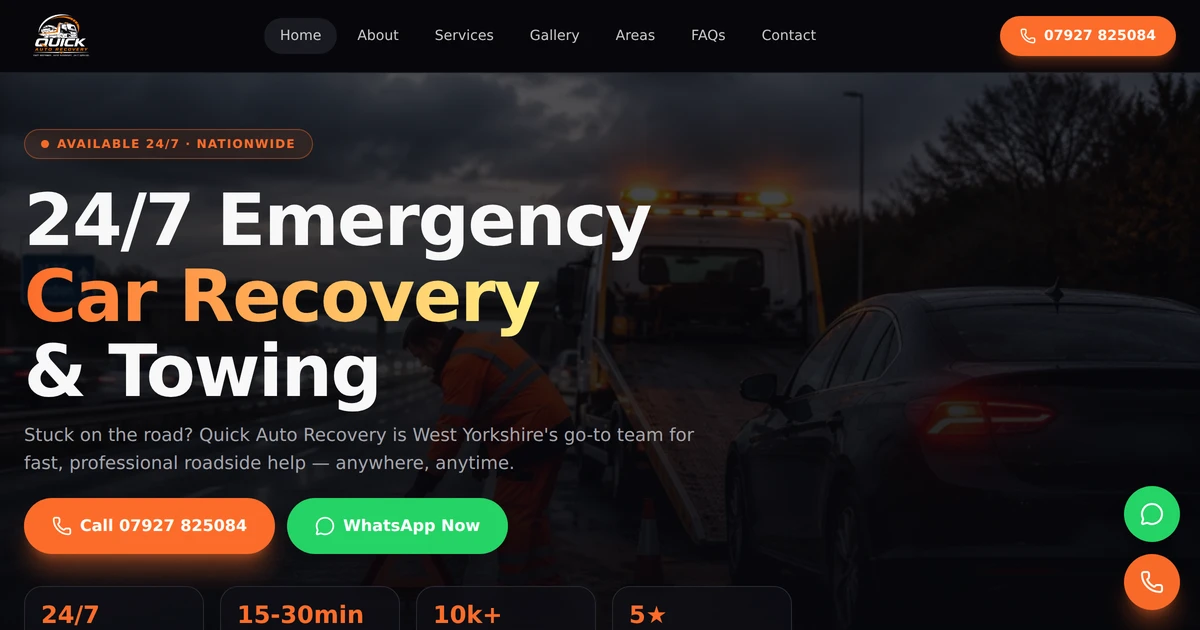
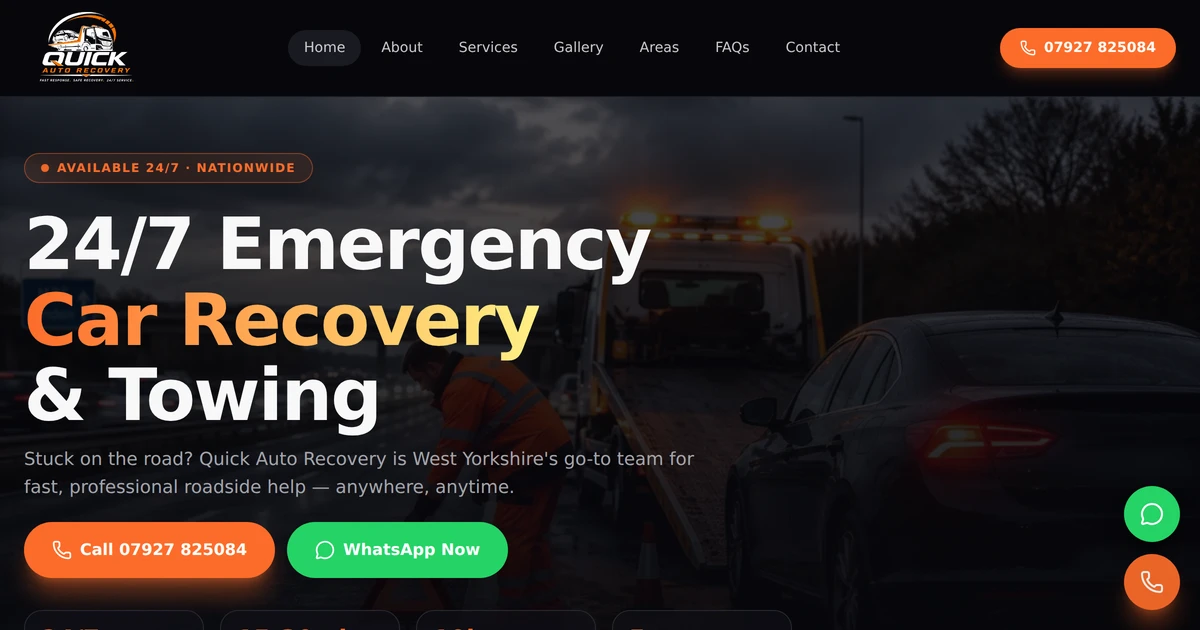
Fix Open Graph image not resolving on shared links
og:image and twitter:image were relative paths (e.g. /og-image.webp),
which most link-preview crawlers (WhatsApp, Facebook, Slack, X) fail
to resolve, so the preview image never showed when the site was
shared. Adds an absolute SITE_URL base and resolves all og:image/
twitter:image/og:url values against it.

Also fixes the homepage itself overriding the root's custom
og-image.webp with the plain hero photo, and refreshes the OG
snapshot to reflect the larger logo.

diff --git a/src/routes/__root.tsx b/src/routes/__root.tsx
@@ -11,6 +11,7 @@ import { useEffect, type ReactNode } from "react";
 
 import appCss from "../styles.css?url";
 import { reportLovableError } from "../lib/lovable-error-reporting";
+import { absoluteUrl, SITE_URL } from "../lib/seo";
 
 function NotFoundComponent() {
   return (
@@ -82,13 +83,14 @@ export const Route = createRootRouteWithContext<{ queryClient: QueryClient }>()(
       { name: "theme-color", content: "#0a0a14" },
       { property: "og:type", content: "website" },
       { property: "og:site_name", content: "Quick Auto Recovery" },
+      { property: "og:url", content: SITE_URL },
       { name: "twitter:card", content: "summary_large_image" },
       { property: "og:title", content: "Quick Auto Recovery — 24/7 Roadside Assistance West Yorkshire" },
       { name: "twitter:title", content: "Quick Auto Recovery — 24/7 Roadside Assistance West Yorkshire" },
       { property: "og:description", content: "24/7 emergency roadside assistance, vehicle recovery, jump start, battery replacement, mobile tyre service and secure vehicle storage across Bradford, Leeds, Halifax, Huddersfield and West Yorkshire." },
       { name: "twitter:description", content: "24/7 emergency roadside assistance, vehicle recovery, jump start, battery replacement, mobile tyre service and secure vehicle storage across Bradford, Leeds, Halifax, Huddersfield and West Yorkshire." },
-      { property: "og:image", content: "/og-image.webp" },
-      { name: "twitter:image", content: "/og-image.webp" },
+      { property: "og:image", content: absoluteUrl("/og-image.webp") },
+      { name: "twitter:image", content: absoluteUrl("/og-image.webp") },
     ],
     links: [
       {

diff --git a/src/lib/seo.ts b/src/lib/seo.ts
@@ -1,3 +1,9 @@
+export const SITE_URL = "https://quick-auto-recovery.vercel.app";
+
+export function absoluteUrl(path: string) {
+  return path.startsWith("http") ? path : `${SITE_URL}${path}`;
+}
+
 export function pageMeta({ title, description, path, image }: { title: string; description: string; path: string; image?: string }) {
   const meta: Array<Record<string, string>> = [
     { title },
@@ -5,14 +11,14 @@ export function pageMeta({ title, description, path, image }: { title: string; d
     { property: "og:title", content: title },
     { property: "og:description", content: description },
     { property: "og:type", content: "website" },
-    { property: "og:url", content: path },
+    { property: "og:url", content: absoluteUrl(path) },
     { name: "twitter:card", content: "summary_large_image" },
     { name: "twitter:title", content: title },
     { name: "twitter:description", content: description },
   ];
   if (image) {
-    meta.push({ property: "og:image", content: image });
-    meta.push({ name: "twitter:image", content: image });
+    meta.push({ property: "og:image", content: absoluteUrl(image) });
+    meta.push({ name: "twitter:image", content: absoluteUrl(image) });
   }
   return meta;
 }

diff --git a/src/routes/index.tsx b/src/routes/index.tsx
@@ -14,7 +14,7 @@ export const Route = createFileRoute("/")({
       title: "Quick Auto Recovery — 24/7 Roadside Assistance West Yorkshire",
       description: "West Yorkshire's trusted 24/7 emergency recovery, towing, accident recovery and specialist vehicle transport. Fast response, fair prices.",
       path: "/",
-      image: IMG.hero,
+      image: "/og-image.webp",
     }),
     links: [{ rel: "canonical", href: "/" }],
   }),
